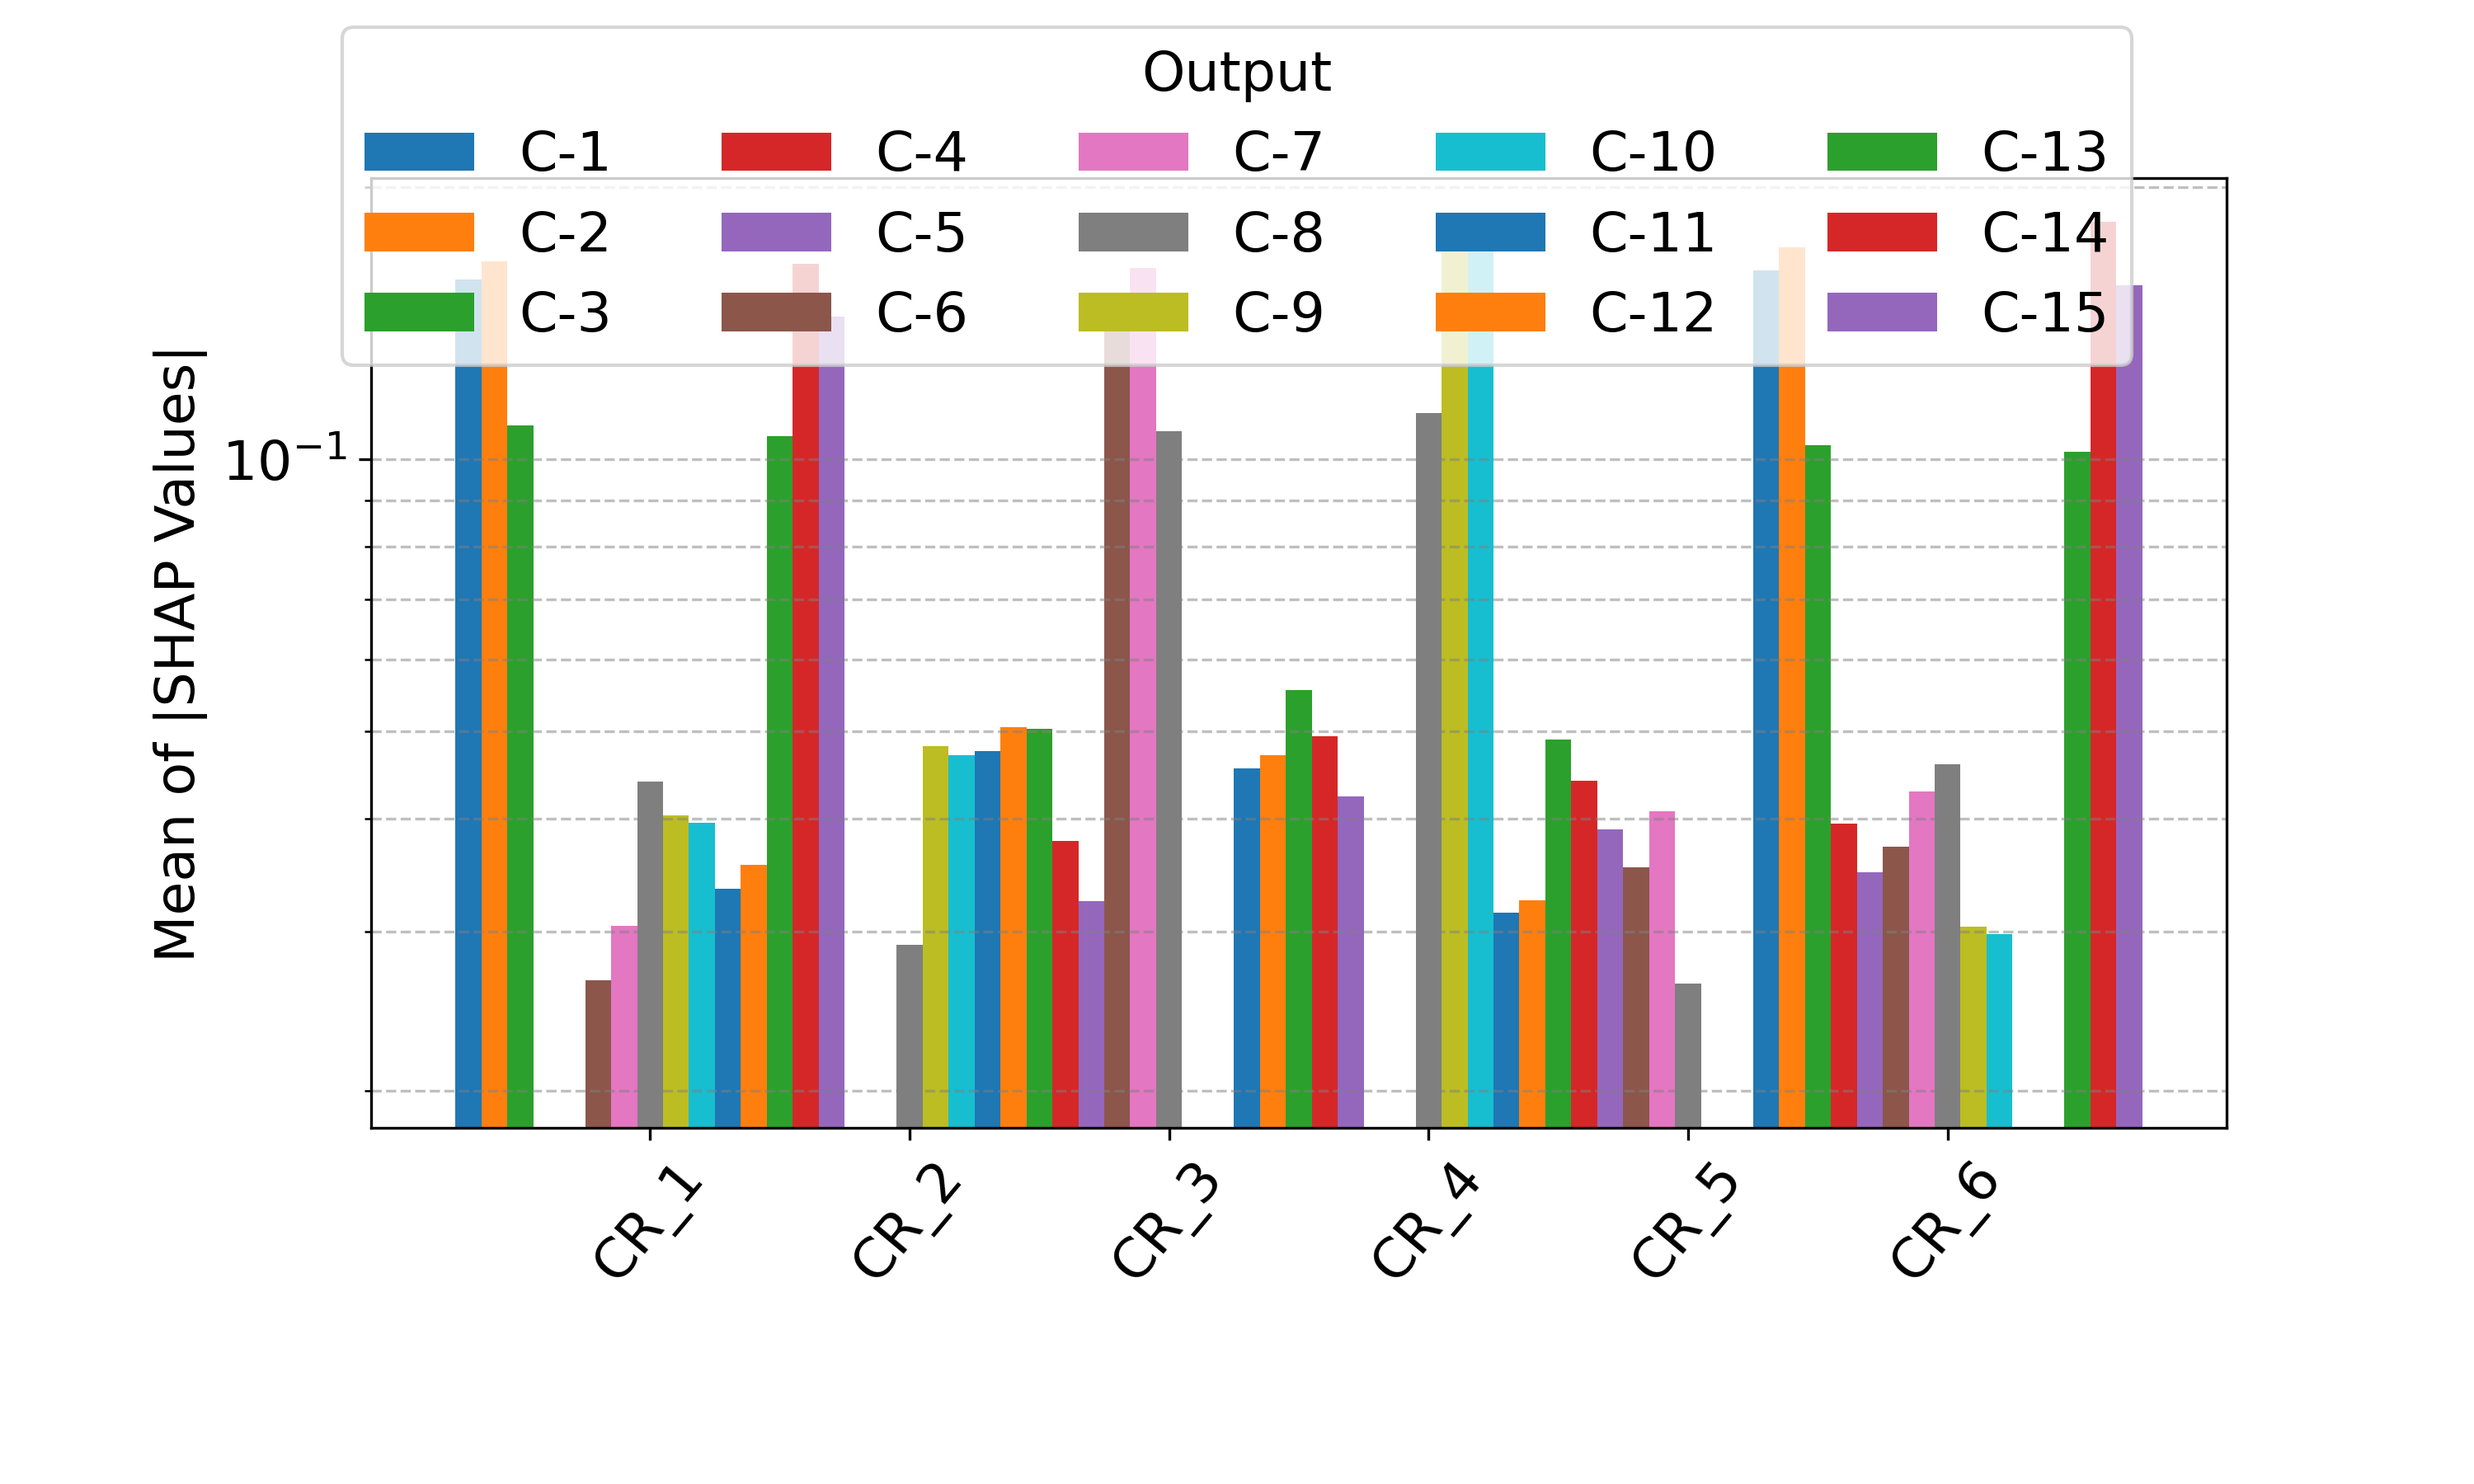
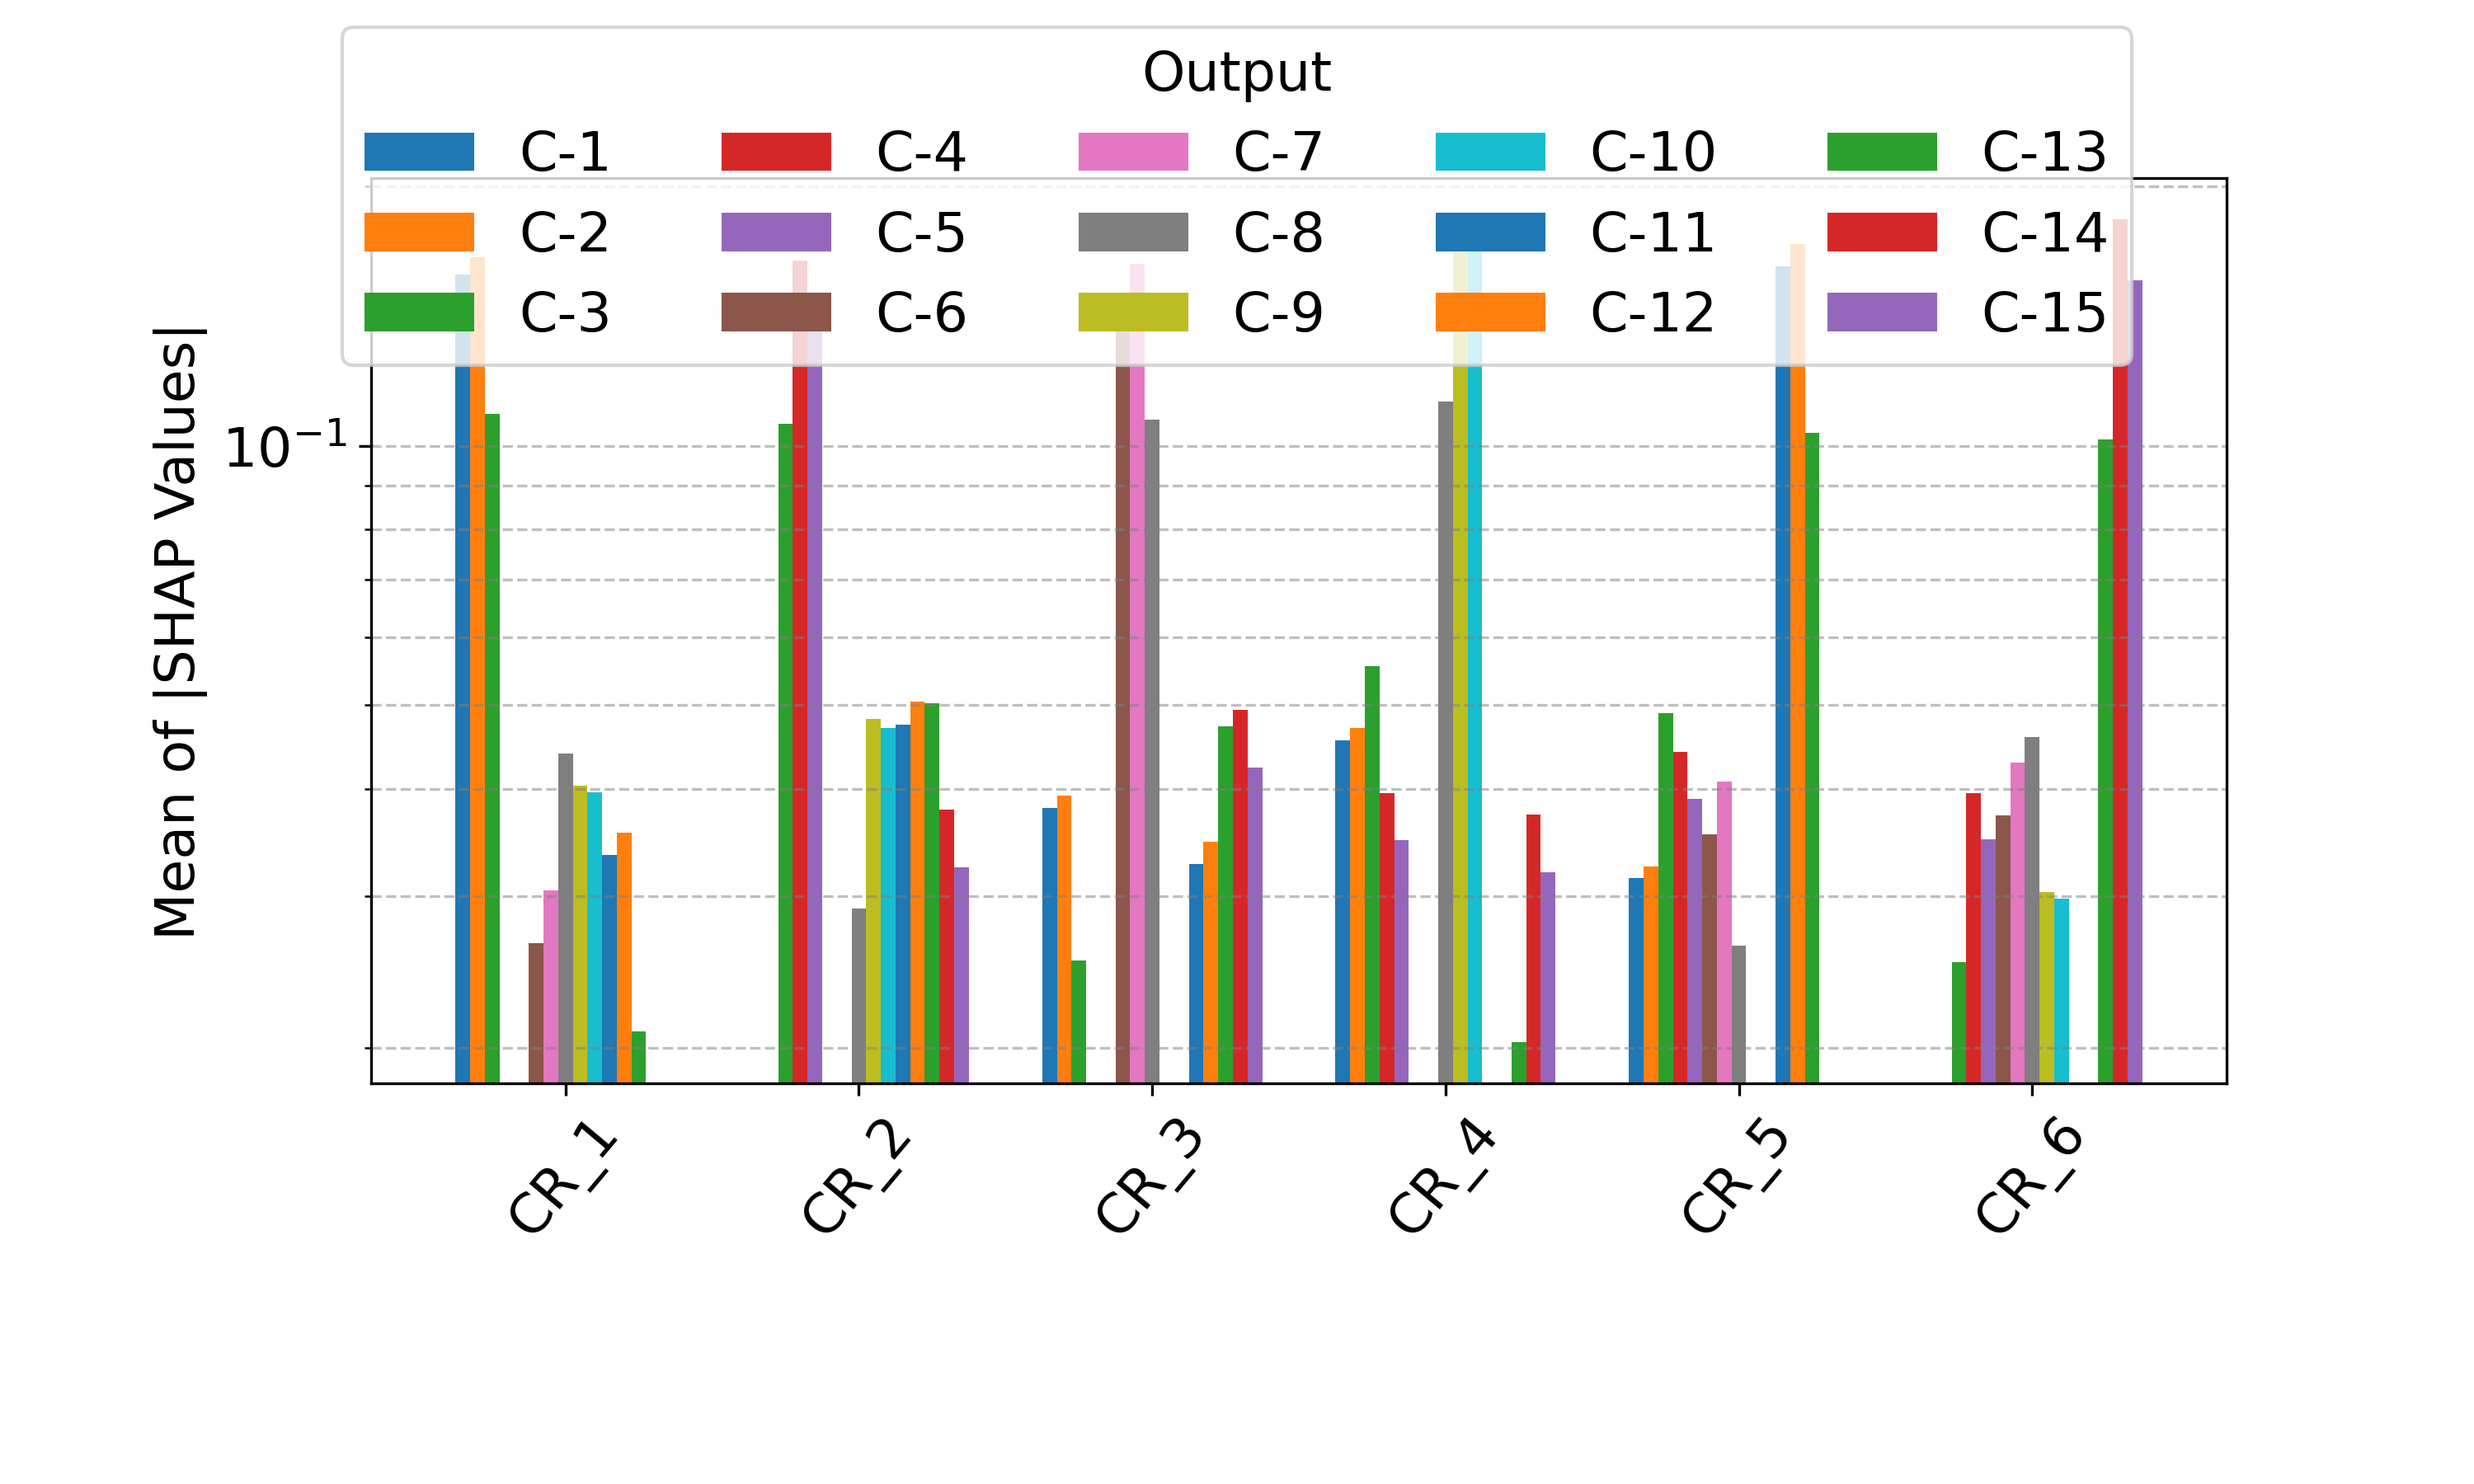
fixes mitr c spacing

Changed region(s): [[0.155, 0.1556, 0.899, 0.8711], [0.062, 0.2178, 0.155, 0.6533], [0.248, 0.8089, 0.279, 0.84]]

diff --git a/fnn.py b/fnn.py
@@ -325,15 +325,15 @@ if __name__=="__main__":
     shap_path_dict = {
         # 'chf': 'shap-values/CHF_fnn_2025-03-18.pkl', 
         # 'bwr': 'shap-values/BWR_fnn_2025-03-18.pkl', 
-        'fp': 'shap-values/FP_fnn_2025-04-03.pkl', 
+        # 'fp': 'shap-values/FP_fnn_2025-04-03.pkl', 
         # 'heat': 'shap-values/HEAT_fnn_2025-03-18.pkl', 
-        'htgr': 'shap-values/HTGR_fnn_2025-04-03.pkl', 
+        # 'htgr': 'shap-values/HTGR_fnn_2025-04-03.pkl', 
         # 'mitr': 'shap-values/MITR_fnn_2025-03-18.pkl', 
         # 'rea': 'shap-values/REA_fnn_2025-03-18.pkl', 
-        'xs': 'shap-values/XS_fnn_2025-04-03.pkl', 
+        # 'xs': 'shap-values/XS_fnn_2025-04-03.pkl', 
         # 'mitr_a': 'shap-values/MITR_A_fnn_2025-03-18.pkl', 
         # 'mitr_b': 'shap-values/MITR_B_fnn_2025-03-18.pkl', 
-        # 'mitr_c': 'shap-values/MITR_C_fnn_2025-03-18.pkl'
+        'mitr_c': 'shap-values/MITR_C_fnn_2025-03-18.pkl'
         }
 
     # # STEP 1: train FNN models and get metrics
@@ -345,7 +345,7 @@ if __name__=="__main__":
 
     # # STEP 3: plot shap values, need shap path dict from Step 2
     for model, path in shap_path_dict.items():
-        plot_shap(path, save_as=f'{model}_fnn', type='fnn', width=0.2)
+        plot_shap(path, save_as=f'{model}_fnn', type='fnn', width=0.05)
 
     # # STEP 4 (optional): print shap values and save to csv
     # for model, path in shap_path_dict.items():

diff --git a/explainability.py b/explainability.py
@@ -203,17 +203,17 @@ if __name__=="__main__":
     }
 
     shap_path_dict = {
-        'fp': 'shap-values/FP_kan_2025-04-03.pkl', 
+        # 'fp': 'shap-values/FP_kan_2025-04-03.pkl', 
         # 'bwr': 'shap-values/BWR_kan_2025-03-18.pkl', 
         # 'heat': 'shap-values/HEAT_kan_2025-03-18.pkl', 
-        'htgr': 'shap-values/HTGR_kan_2025-04-03.pkl', 
+        # 'htgr': 'shap-values/HTGR_kan_2025-04-03.pkl', 
         # 'mitr_a': 'shap-values/MITR_A_kan_2025-03-18.pkl', 
         # 'mitr_b': 'shap-values/MITR_B_kan_2025-03-18.pkl', 
-        # 'mitr_c': 'shap-values/MITR_C_kan_2025-03-18.pkl', 
+        'mitr_c': 'shap-values/MITR_C_kan_2025-03-18.pkl', 
         # 'mitr': 'shap-values/MITR_kan_2025-03-18.pkl', 
         # 'chf': 'shap-values/CHF_kan_2025-03-18.pkl', 
         # 'rea': 'shap-values/REA_kan_2025-03-18.pkl', 
-        'xs': 'shap-values/XS_kan_2025-04-03.pkl'
+        # 'xs': 'shap-values/XS_kan_2025-04-03.pkl'
         }
 
     # # uncomment to calculate kan shap values
@@ -222,7 +222,7 @@ if __name__=="__main__":
 
     # uncomment to make shap kan plots
     for model, path in shap_path_dict.items():
-        plot_shap(path, save_as=f'{model}_kan', type='kan', width=0.2)
+        plot_shap(path, save_as=f'{model}_kan', type='kan', width=0.05)
 
     ## uncomment to print shap values
     # for model, path in shap_path_dict.items():
